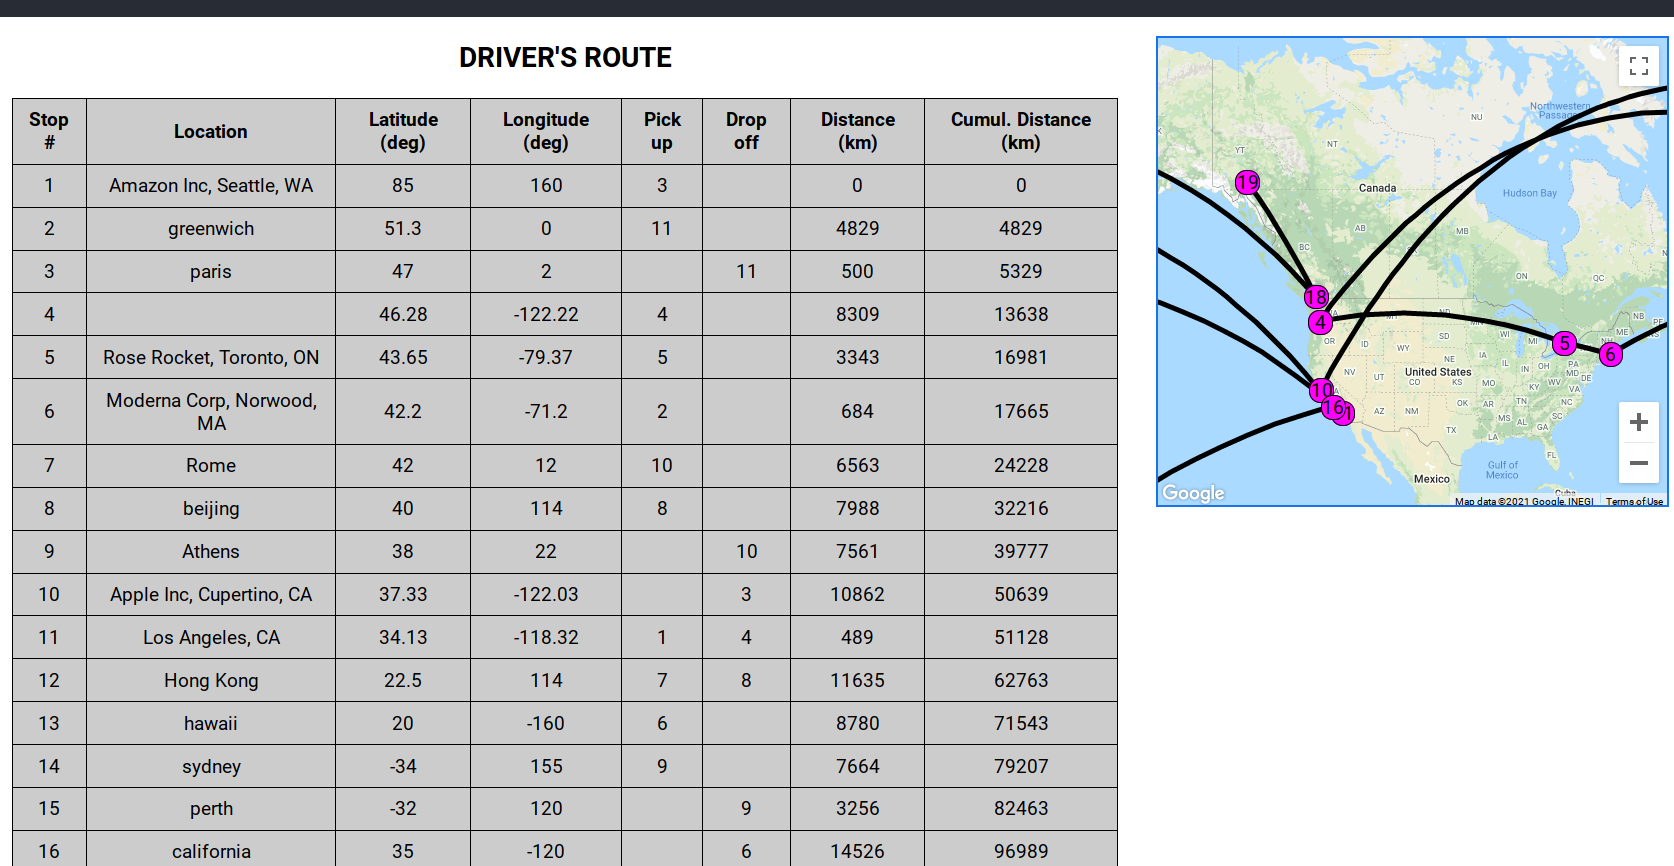
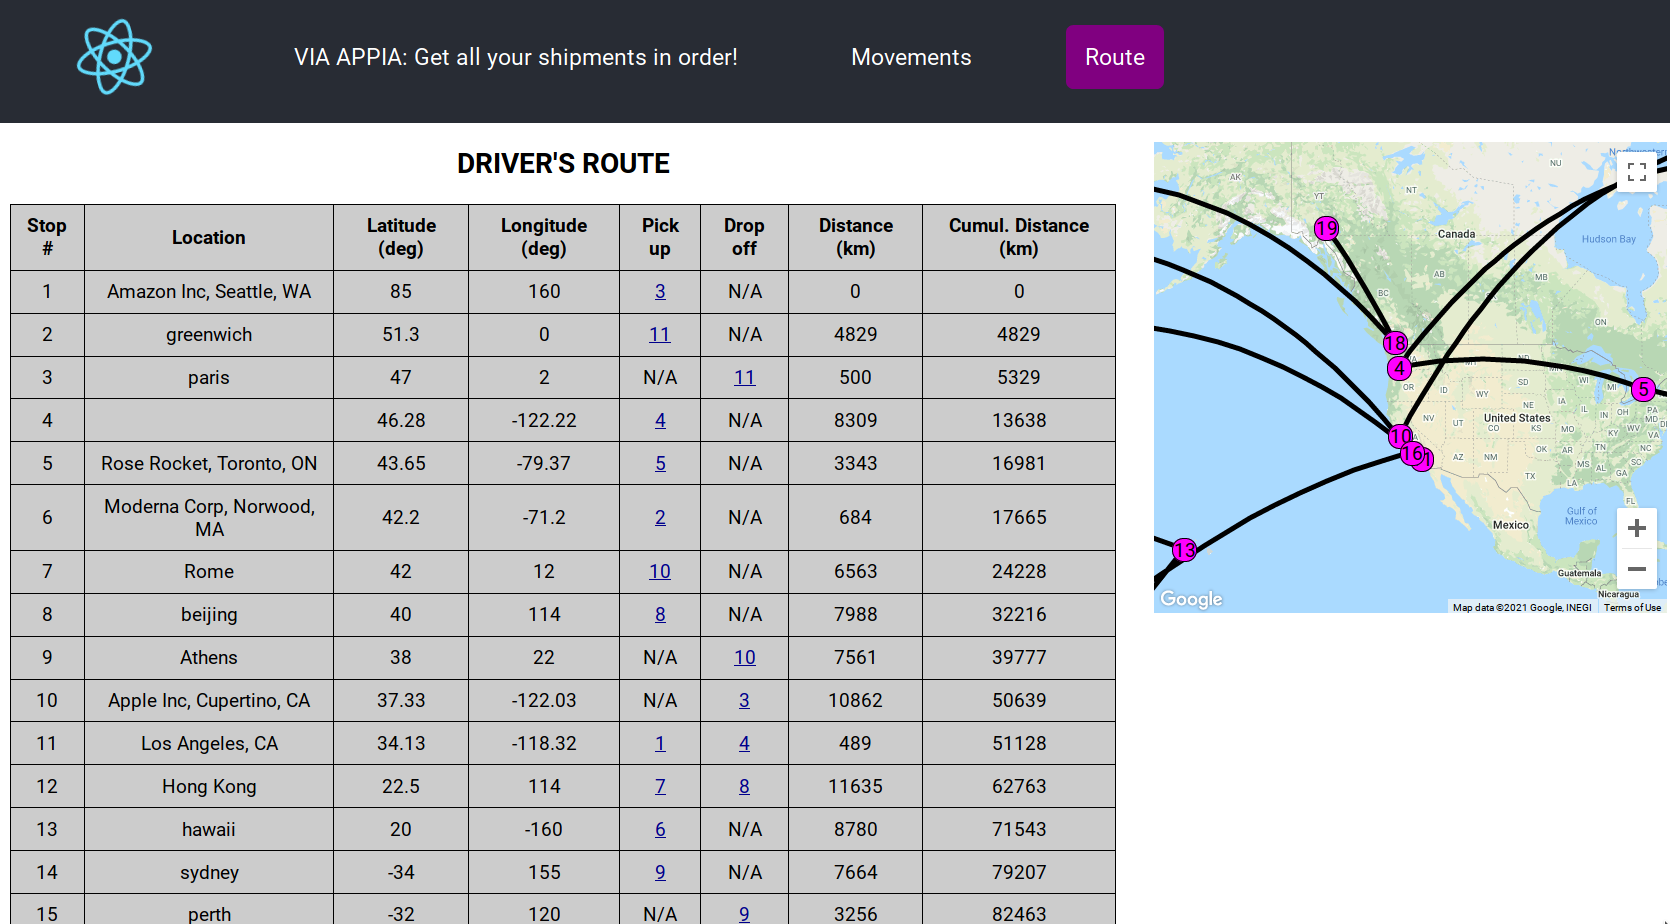
update README and add links to movements from route table

diff --git a/src/components/RoutePoint.jsx b/src/components/RoutePoint.jsx
@@ -4,14 +4,41 @@ const RoutePoint = (props) => {
   const { num, location, lat, long, code, distance, cumulDistance } = props.point;
   const pickUp = code.filter(c => c.includes("A")).map(c => c.slice(0, c.length - 1));
   const dropOff = code.filter(c => c.includes("B")).map(c => c.slice(0, c.length - 1));
+
+  const {setActiveMovement, setDetailsScreenShow, setMode } = props.detailsHook;
+
+  const linkToMovement = (id) => {
+    const myMovement = props.movements.find(movement => movement.id === Number(id));
+    if (myMovement) {
+      setActiveMovement(myMovement)
+      setDetailsScreenShow(true);
+      setMode("VIEW");
+      props.setPage("MOVEMENT");
+    } else {
+
+    }
+  };
+
+  const linkText = (numbers) => {
+    if (numbers.length) {
+      let text = numbers.map((number, ind) => {
+        return (ind === 0) ? (<a onClick={() => linkToMovement(number)}>{number}</a>) :
+          (<>, <a onClick={() => linkToMovement(number)}>{number}</a></>);
+      });
+      return text;
+    } else {
+      return "N/A";
+    }
+  };
+
   return (
     <tr>
       <td>{num}</td>
       <td>{location}</td>
       <td>{lat}</td>
       <td>{long}</td>
-      <td>{pickUp.join(', ')}</td>
-      <td>{dropOff.join(', ')}</td>
+      <td>{linkText(pickUp)}</td>
+      <td>{linkText(dropOff)}</td>
       <td>{distance}</td>
       <td>{cumulDistance}</td>
     </tr>

diff --git a/src/components/RouteList.jsx b/src/components/RouteList.jsx
@@ -7,7 +7,7 @@ import RouteMap from './RouteMap';
 const RouteList = (props) => {
   const points = findRoute(props.movements);
   const thePoints = points.map((point) => {
-    return <RoutePoint point={point} />;
+    return <RoutePoint point={point} detailsHook={props.detailsHook} setPage={props.setPage}  movements={props.movements} />;
   });
   return (
     <>
@@ -30,7 +30,7 @@ const RouteList = (props) => {
         </table>
       </div>
       <aside>
-        <RouteMap points={points} />
+        <RouteMap points={points}/>
       </aside>
     </>
   );

diff --git a/src/stylesheets/App.scss b/src/stylesheets/App.scss
@@ -34,14 +34,13 @@ header {
   p.highlight {
     background-color: purple;
     border-radius: 0.4rem;
-  };
+  }
 
   > * {
     margin: 0 2rem;
     font-size: 1.2rem;
     padding: 1rem;
-  };
-
+  }
 }
 
 @keyframes App-logo-spin {
@@ -56,4 +55,10 @@ header {
 main {
   display: flex;
   justify-content: space-around;
+}
+
+a {
+  color: darkblue;
+  text-decoration: underline;
+  cursor: pointer;
 }

diff --git a/src/components/App.jsx b/src/components/App.jsx
@@ -37,7 +37,7 @@ function App() {
         <Map movements={movements} detailsHook={detailsHook} />
       </main>)}
       {page === "ROUTE" && (<main>
-        <RouteList movements={movements} />
+        <RouteList movements={movements} detailsHook={detailsHook} movements={movements} setPage={setPage} />
       </main>)}
       <footer></footer>
     </div>

diff --git a/README.md b/README.md
@@ -4,6 +4,8 @@ Via Appia is an app to help dispatchers in a logistics company track the movemen
 
 This project was created as part of the application process for a software development position with Rose Rocket.
 
+(Note: This file contains instructions for building and running the app. Instructions on using the app may be found [here](/FEATURES.md).)
+
 ## Running Locally (instructions for Linux)
 
 This app consists of a React front end (this repo) and a [Node/Express API](https://github.com/sherwin-kwan/via-appia-api). You need to have both running for this app to work properly.
@@ -35,40 +37,3 @@ yarn install
 5) A browser window should appear and navigate to the application automatically. (If it doesn't, open your browser of choice and navigate to http://localhost:3000 or whatever port number you chose for the React front-end)
 
 WARNING: The back-end is NOT linked to a database; the data is stored in an object which is seeded in `/via-appia/data/movements/js`. ANY NEW MOVEMENTS YOU CREATE WIL BE LOST IF THE SERVER IS KILLED OR RESTARTED.
-
-# Using Via Appia
-
-![Movements](/public/movements.png)
-
-* You may switch between the "Movement" and "Route" views by clicking on the tabs in the header.
-
-## Create a new movement
-
-* Click "Create New Movement"
-* Fill out the form. All fields not marked with `(optional)` are required.
-* Click "Save"
-* If you enter the same start/end coordinates as a different movement, it will not save. Please instead edit the other movement and add the additional freight.
-* If an error occurs here, please confirm that the back-end API server is running.
-
-## Edit a movement
-
-* Click on the "Edit" button for a movement
-* Edit the form and click "Save" to save
-
-## Delete a movement
-
-* Click on the "Delete" button for a movement. Warning: There will be no confirmation dialog box - deletion is PERMANENT and there is no way of getting the data back!
-
-## Map
-
-* On the map, each movement appears as a line with the same colour as the corresponding row in the table. "A" marks the start location and "B" marks the end location.
-* When you mouse over a row in the table, that line will be highlighted on the map.
-* By default, the map displays the Pacific Northwest region of North America. You may need to drag to a different part of the world to see your movements.
-
-## Route View
-
-![Route View](/public/routes.png)
-
-* A list of locations for your driver to visit is presented in the table. The stop #'s correspond to the numbered spots on the map.
-* At each location, the numbers in "pick up" represent the movement IDs for the freight your driver has to pick up, and vice versa for "drop off".
-* A comma-separated list (e.g. "2, 5") means that *both* movements 2 and 5 end at the same spot, and your driver is to drop off both shipments.

diff --git a/FEATURES.md b/FEATURES.md
@@ -1,0 +1,44 @@
+# Via Appia: How-to and Features
+
+* If you are looking for instructions to install and run the app locally, see the [README](/README.md).
+
+![Movements](/public/movements.png)
+
+* You may switch between the "Movement" and "Route" views by clicking on the tabs in the header.
+
+## Create a new movement
+
+* Click "Create New Movement"
+* Fill out the form. All fields not marked with `(optional)` are required.
+* Click "Save"
+* If you enter the same start/end coordinates as a different movement, it will not save. Please instead edit the other movement and add the additional freight.
+* If an error occurs here, please confirm that the back-end API server is running.
+
+## Edit a movement
+
+* Click on the "Edit" button for a movement
+* Edit the form and click "Save" to save
+
+## Delete a movement
+
+* Click on the "Delete" button for a movement. Warning: There will be no confirmation dialog box - deletion is PERMANENT and there is no way of getting the data back!
+
+## Map
+
+* On the map, each movement appears as a line with the same colour as the corresponding row in the table. "A" marks the start location and "B" marks the end location.
+* When you mouse over a row in the table, that line will be highlighted on the map.
+
+## Route View
+
+![Route View](/public/routes.png)
+
+* A list of locations for your driver to visit is presented in the table. The stop #'s correspond to the numbered spots on the map.
+* At each location, the numbers in "pick up" represent the movement IDs for the freight your driver has to pick up, and vice versa for "drop off".
+* A comma-separated list (e.g. "2, 5") means that *both* movements 2 and 5 end at the same spot, and your driver is to drop off both shipments.
+* Clicking on the numbers in the pick up or drop off columns links to the details page for that movement.
+
+# Known Imperfections
+
+* By default, the map displays the Pacific Northwest region of North America when it loads. If your movements are somewhere else, you will need to drag the map to the correct part of the world.
+* The algorithm for deciding the route is fairly basic - it will normally go from north to south to pick up items and back to north to drop off items. However, if your routes involve a lot of east-west movement, the route may not be optimal.
+
